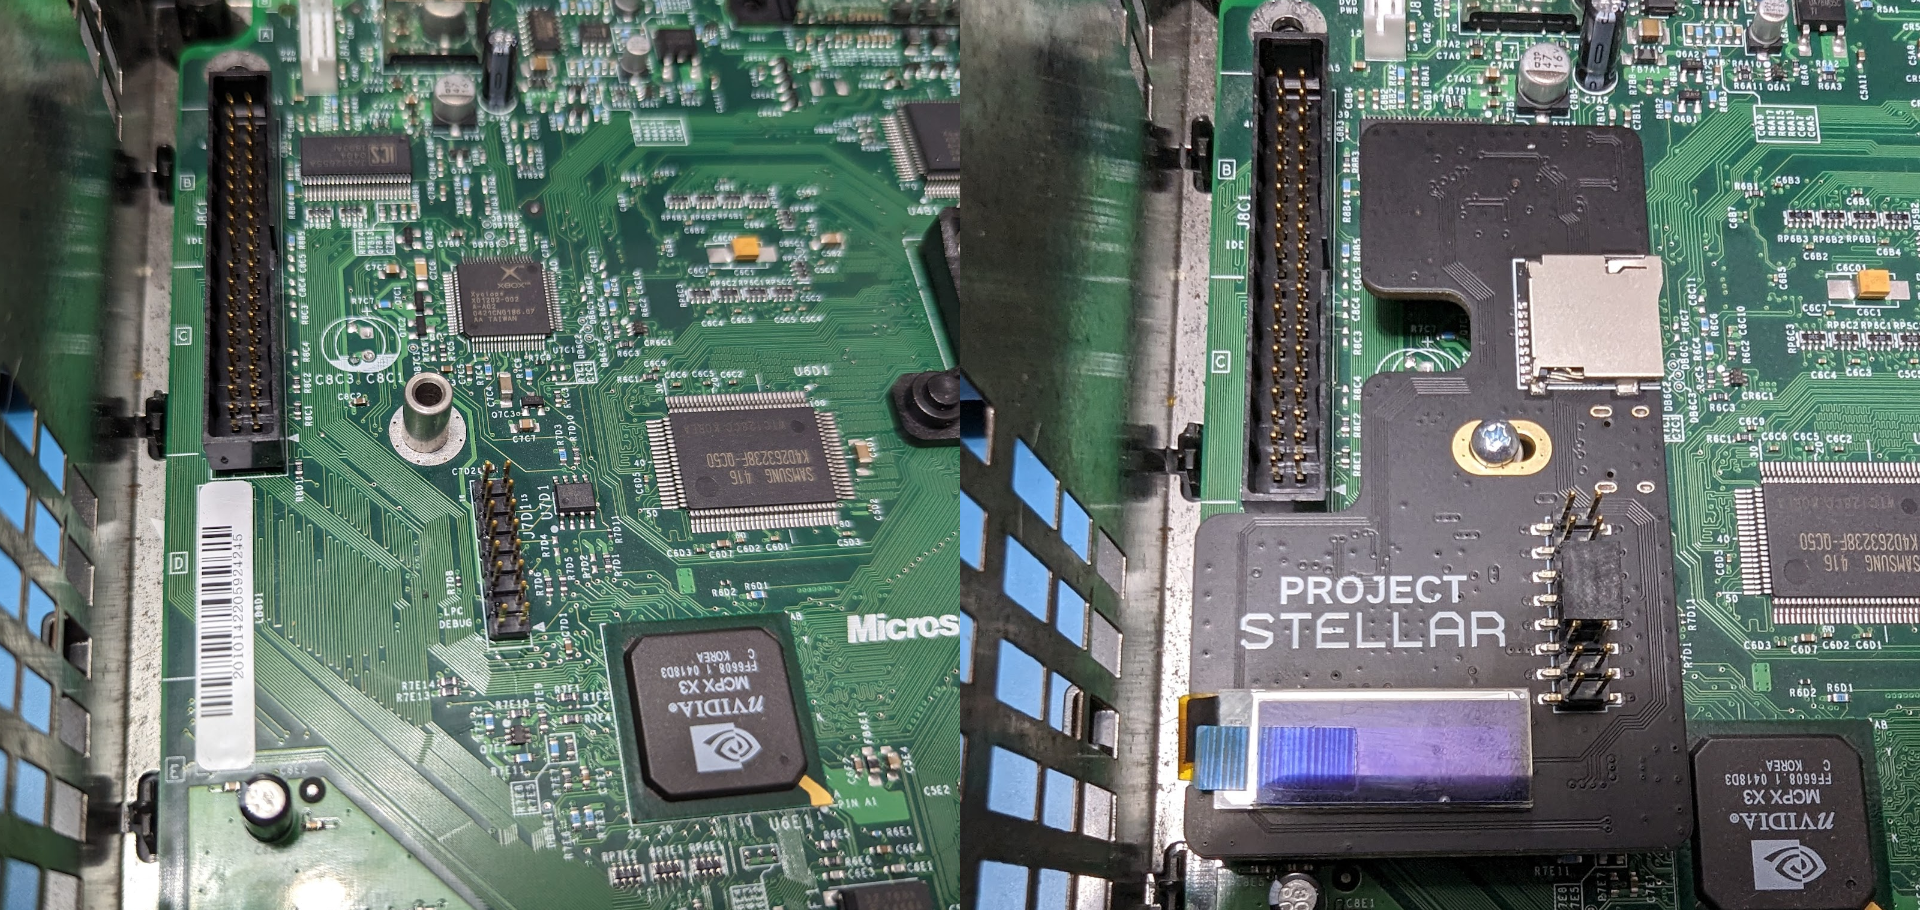
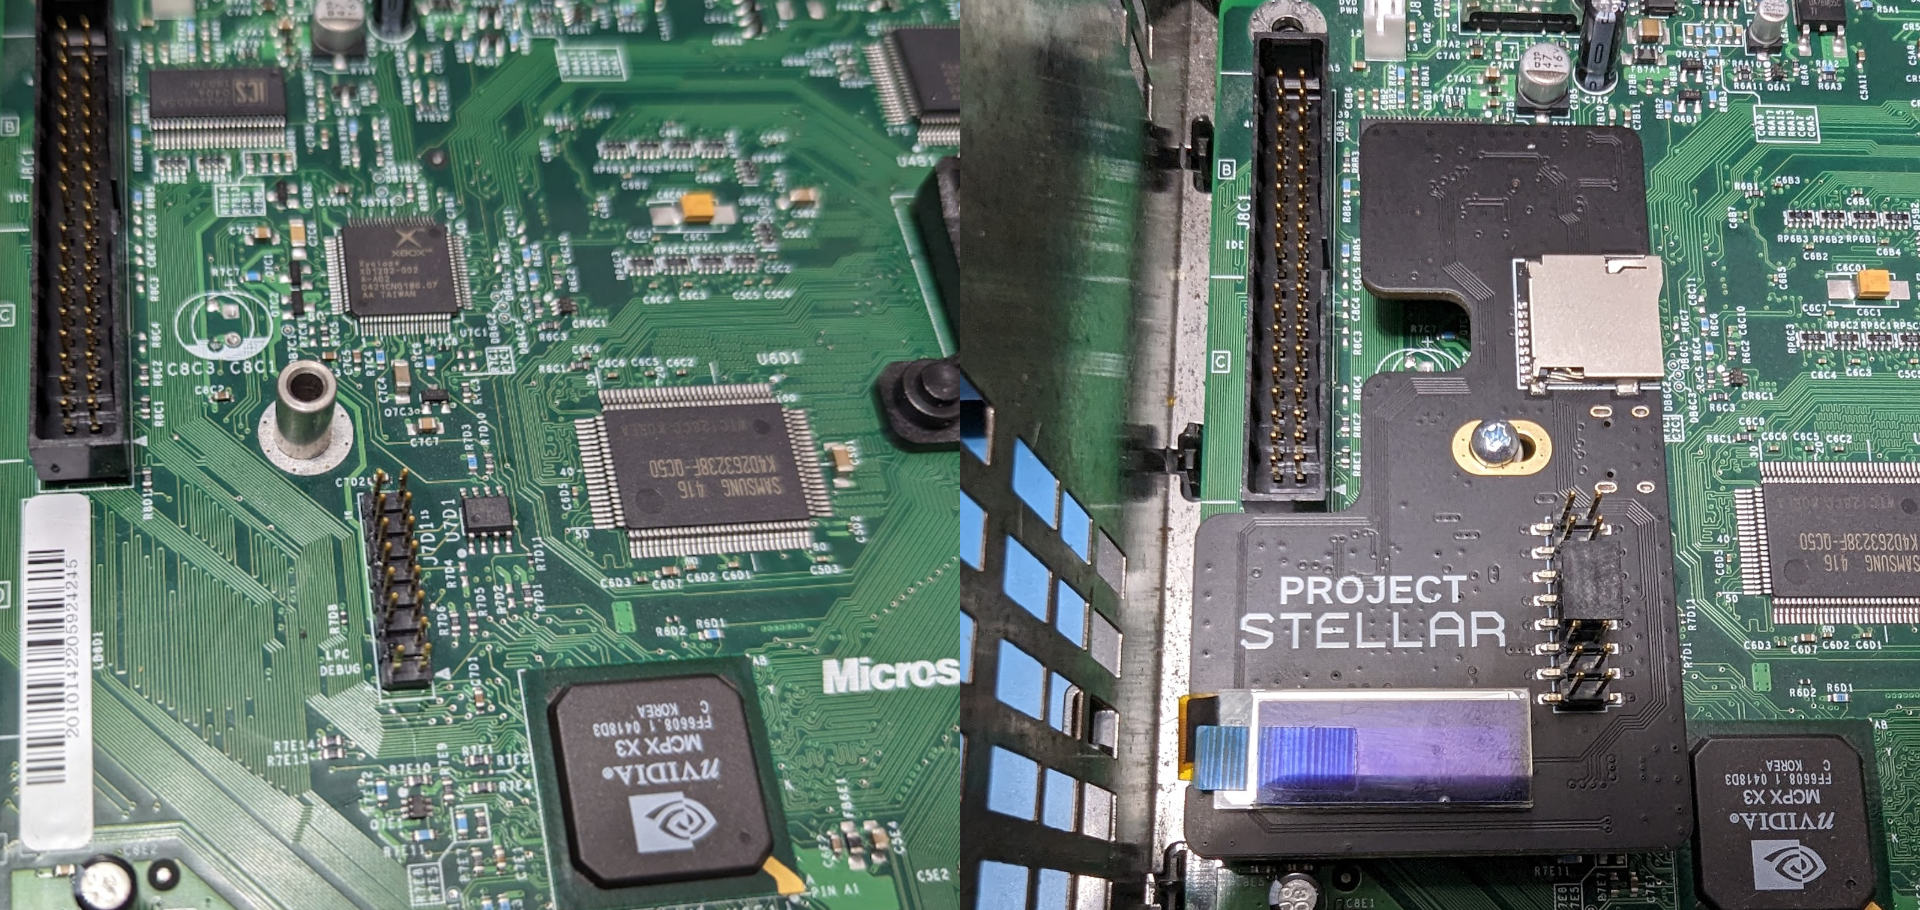
Update Project Stellar guide for Stellar Plus

diff --git a/docs/02-project-stellar/01-installation-guide/index.md b/docs/02-project-stellar/01-installation-guide/index.md
@@ -65,9 +65,63 @@ For Xbox revisions 1.0 - 1.5 we must connect D0 to ground to force the system to
 ![Easy D0](./images/easy_d0.png)
 ![Easy D0 Alignment](./images/easy_d0_alignment.png)
 
-## Step 4 - Mounting
+## Step 4 - Wireless Flex
+
+:::note
+Skip this step when installing the original Project Stellar. The Wireless Flex is only used with Stellar Plus or the Upgrade kit.
+:::
+
+The wireless flex installation points vary by motherboard version, so make sure you are following the correct layout
+for your console. Carefully compare the photo with your board before soldering.
+
+**Select the tab below that matches your Xbox motherboard revision before continuing.**
+
+<Tabs groupId="xbox-rev">
+<TabItem value="1" label="Xbox 1.0 - 1.1">
+
+![Wireless Flex](./images/wireless_flex_1_0.jpg)
+
+- **Position the Stellar Wireless flex cable and carefully align it with the board.** Confirm that all contact points are lined up
+correctly, and that each test pad matches the corresponding pad on the flex.
+- Position the 1.0 - 1.1 standby power flex cable and solder it into place.
+- **Optional, but highly recommended:** Add the minimum amount of solder needed to the large ground pad to firmly secure the wireless
+flex to the Xbox motherboard. Do not use too much solder. Excess solder can prevent the motherboard from sitting flat in the console shell.
+
+</TabItem>
+<TabItem value="2" label="Xbox 1.2 - 1.5">
+
+![Wireless Flex](./images/wireless_flex_1_2.jpg)
+
+- **Position the Stellar Wireless flex cable and carefully align it with the board.** Confirm that all contact points are lined up
+correctly, and that each test pad matches the corresponding pad on the flex.
+- Position the 1.2 - 1.5 standby power flex cable and solder it into place.
+- **Optional, but highly recommended:** Add the minimum amount of solder needed to the large ground pad to firmly secure the wireless
+flex to the Xbox motherboard. Do not use too much solder. Excess solder can prevent the motherboard from sitting flat in the console shell.
+
+</TabItem>
+<TabItem value="6" label="Xbox 1.6">
+
+![Wireless Flex](./images/wireless_flex_1_6.jpg)
+
+- **Position the Stellar Wireless flex cable and carefully align it with the board.** Confirm that all contact points are lined up
+correctly, and that each test pad matches the corresponding pad on the flex.
+- **Optional, but highly recommended:** Add the minimum amount of solder needed to the large ground pad to firmly secure the wireless
+flex to the Xbox motherboard. Do not use too much solder. Excess solder can prevent the motherboard from sitting flat in the console shell.
+
+</TabItem>
+</Tabs>
+
+---
+
+Carefully insert the flex PCB into the FPC connector on Stellar Plus. Make sure the flex is fully seated, straight, and aligned evenly with the connector before locking it in place.
+
+![Wireless Flex Attach](./images/wireless_flex_attach.jpg)
+
+## Step 5 - Mounting
 
 - Place the provided metal spacer over the PCB hole as shown.
+- **Connect Stellar Plus to the Xbox motherboard while the motherboard is still outside the console.** Insert the provided screw into
+the screw hole to help keep the spacer from sliding out while placing the motherboard back into the console shell.
 - Use the provided Phillips screw to mount Project Stellar. Do not over-tighten, the screw only needs to be lightly tightened.
 
 ![Mounting Stellar](./images/stellar_mount.png)